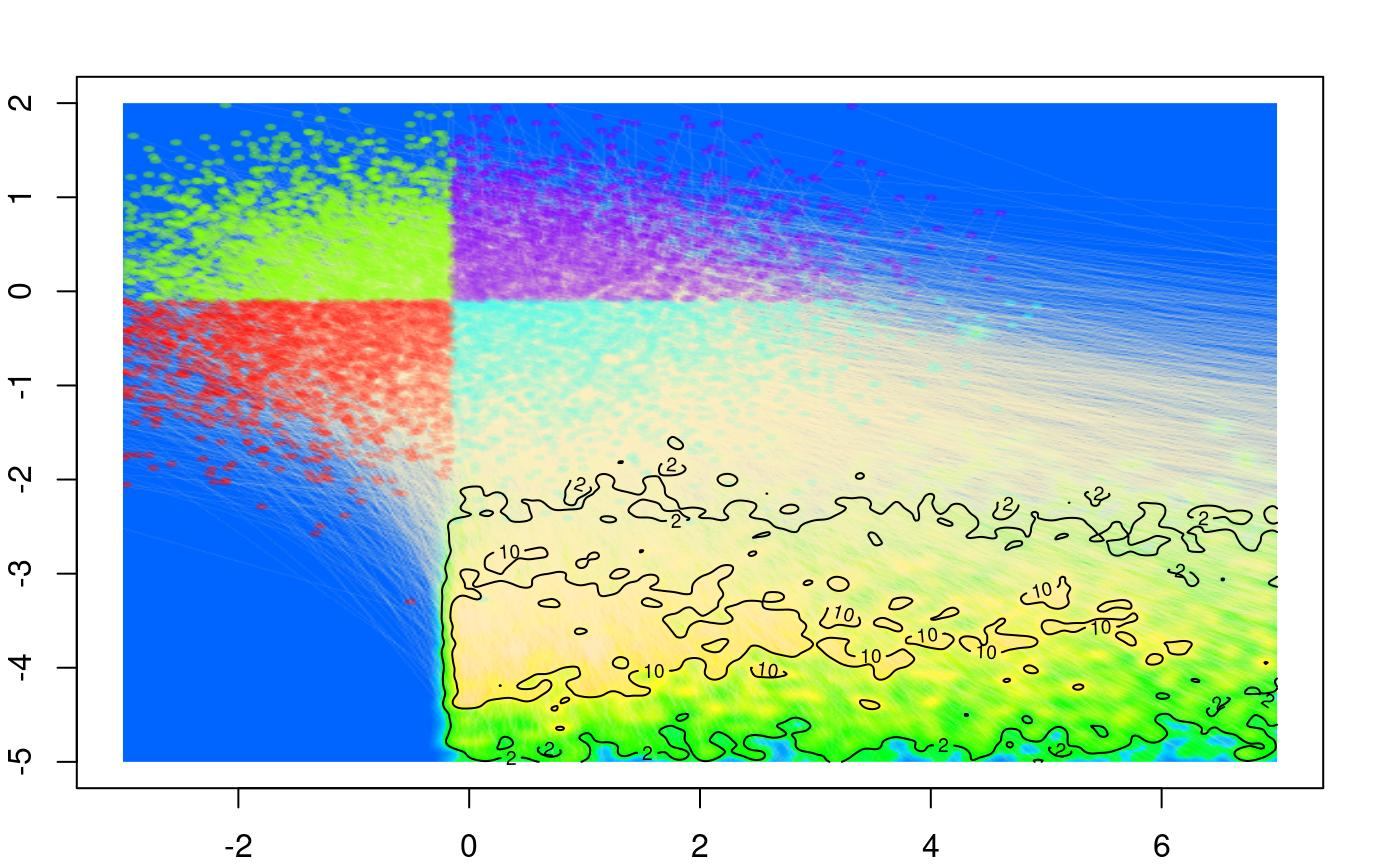
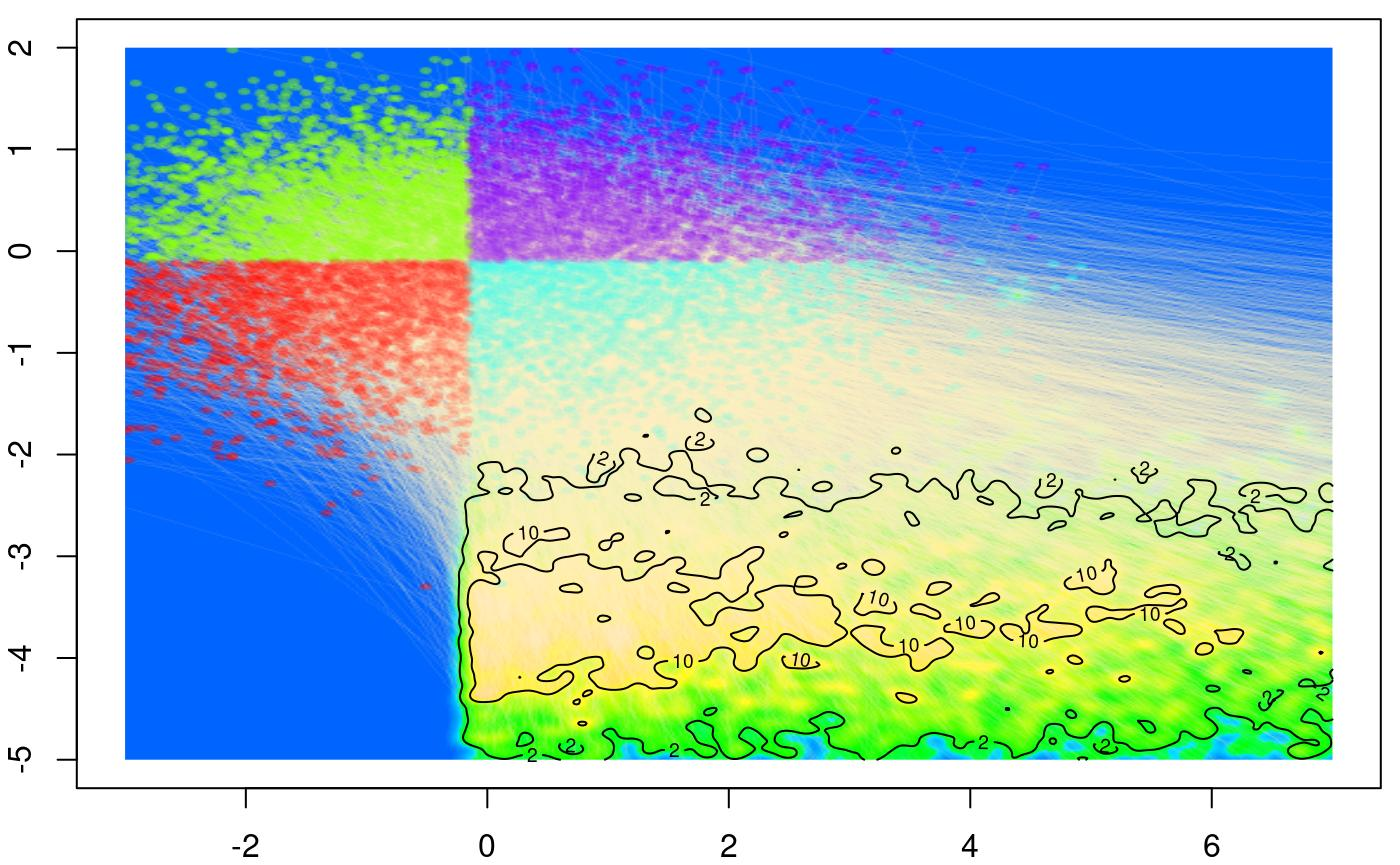
Deploying to gh-pages from @ exaexa/scattermore@a3cf77d2fc584aeba5c4447dae4546b4cedcacad 🚀

diff --git a/articles/low_level_interface.html b/articles/low_level_interface.html
@@ -371,7 +371,7 @@ graphics that combines all of the elements:</p>
 <span><span class="op">)</span><span class="op">)</span></span>
 <span><span class="va">rstr</span> <span class="op">&lt;-</span> <span class="fu"><a href="../reference/rgba_int_to_raster.html">rgba_int_to_raster</a></span><span class="op">(</span><span class="fu"><a href="../reference/rgba_float_to_rgba_int.html">rgba_float_to_rgba_int</a></span><span class="op">(</span><span class="va">rgba</span><span class="op">)</span><span class="op">)</span></span>
 <span></span>
-<span><span class="fu"><a href="https://rdrr.io/r/graphics/par.html" class="external-link">par</a></span><span class="op">(</span>mar<span class="op">=</span><span class="fu"><a href="https://rdrr.io/r/base/rep.html" class="external-link">rep</a></span><span class="op">(</span><span class="fl">2</span>,<span class="fl">4</span><span class="op">)</span>, bg<span class="op">=</span><span class="st">'white'</span><span class="op">)</span></span>
+<span><span class="fu"><a href="https://rdrr.io/r/graphics/par.html" class="external-link">par</a></span><span class="op">(</span>mar<span class="op">=</span><span class="fu"><a href="https://rdrr.io/r/base/c.html" class="external-link">c</a></span><span class="op">(</span><span class="fl">2</span>,<span class="fl">2</span>,<span class="fl">0.5</span>,<span class="fl">0.5</span><span class="op">)</span>, bg<span class="op">=</span><span class="st">'white'</span><span class="op">)</span></span>
 <span><span class="fu"><a href="https://rdrr.io/r/graphics/plot.default.html" class="external-link">plot</a></span><span class="op">(</span><span class="fu"><a href="https://rdrr.io/r/base/c.html" class="external-link">c</a></span><span class="op">(</span><span class="op">)</span>, xlim<span class="op">=</span><span class="fu"><a href="https://rdrr.io/r/base/c.html" class="external-link">c</a></span><span class="op">(</span><span class="op">-</span><span class="fl">3</span>,<span class="fl">7</span><span class="op">)</span>, ylim<span class="op">=</span><span class="fu"><a href="https://rdrr.io/r/base/c.html" class="external-link">c</a></span><span class="op">(</span><span class="op">-</span><span class="fl">5</span>,<span class="fl">2</span><span class="op">)</span><span class="op">)</span></span>
 <span><span class="fu"><a href="https://rdrr.io/r/graphics/rasterImage.html" class="external-link">rasterImage</a></span><span class="op">(</span><span class="fu"><a href="https://rdrr.io/r/base/t.html" class="external-link">t</a></span><span class="op">(</span><span class="va">rstr</span><span class="op">)</span>, xleft<span class="op">=</span><span class="op">-</span><span class="fl">3</span>, xright<span class="op">=</span><span class="fl">7</span>, ybottom<span class="op">=</span><span class="op">-</span><span class="fl">5</span>, ytop<span class="op">=</span><span class="fl">2</span><span class="op">)</span></span>
 <span><span class="co"># a trick is required to flip the bitmap vertically</span></span>
